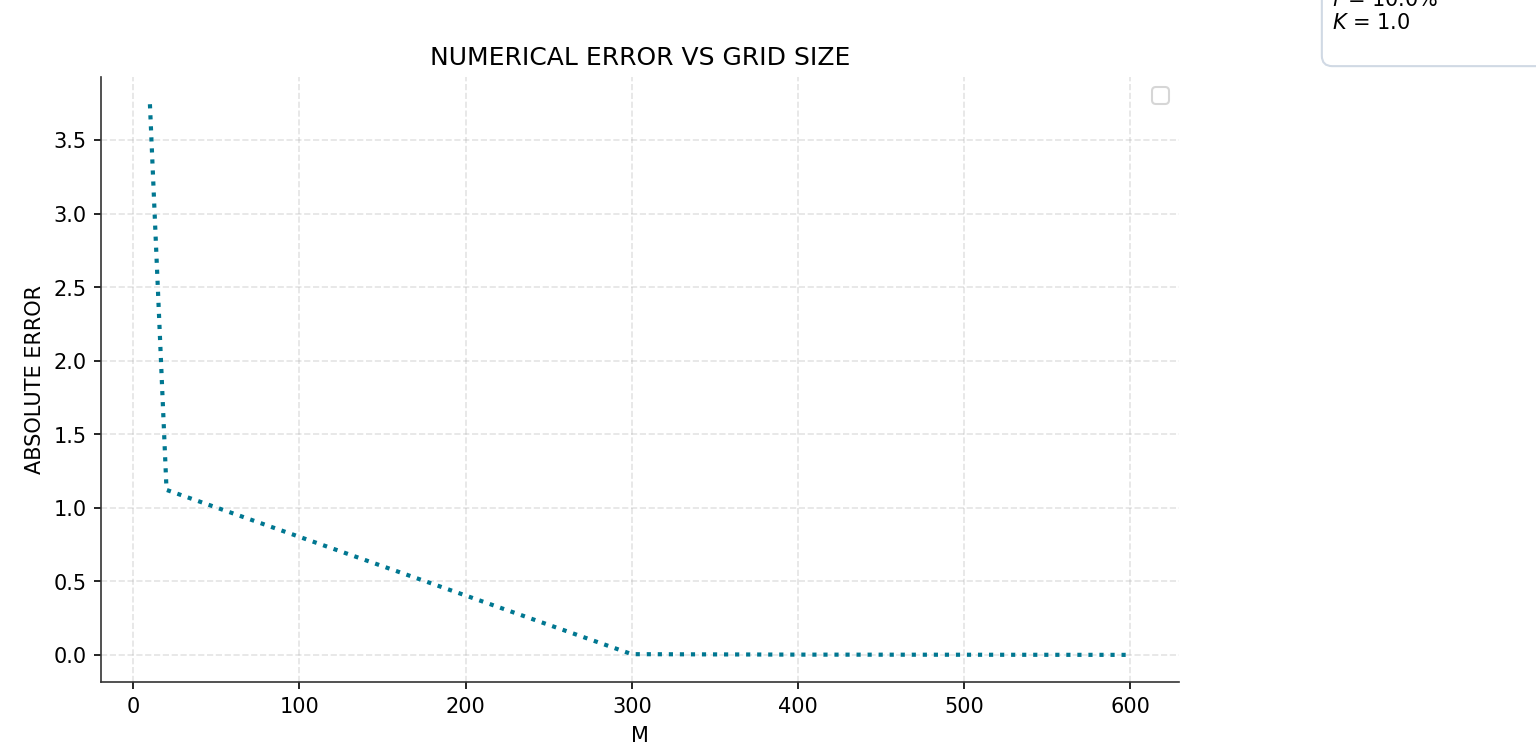
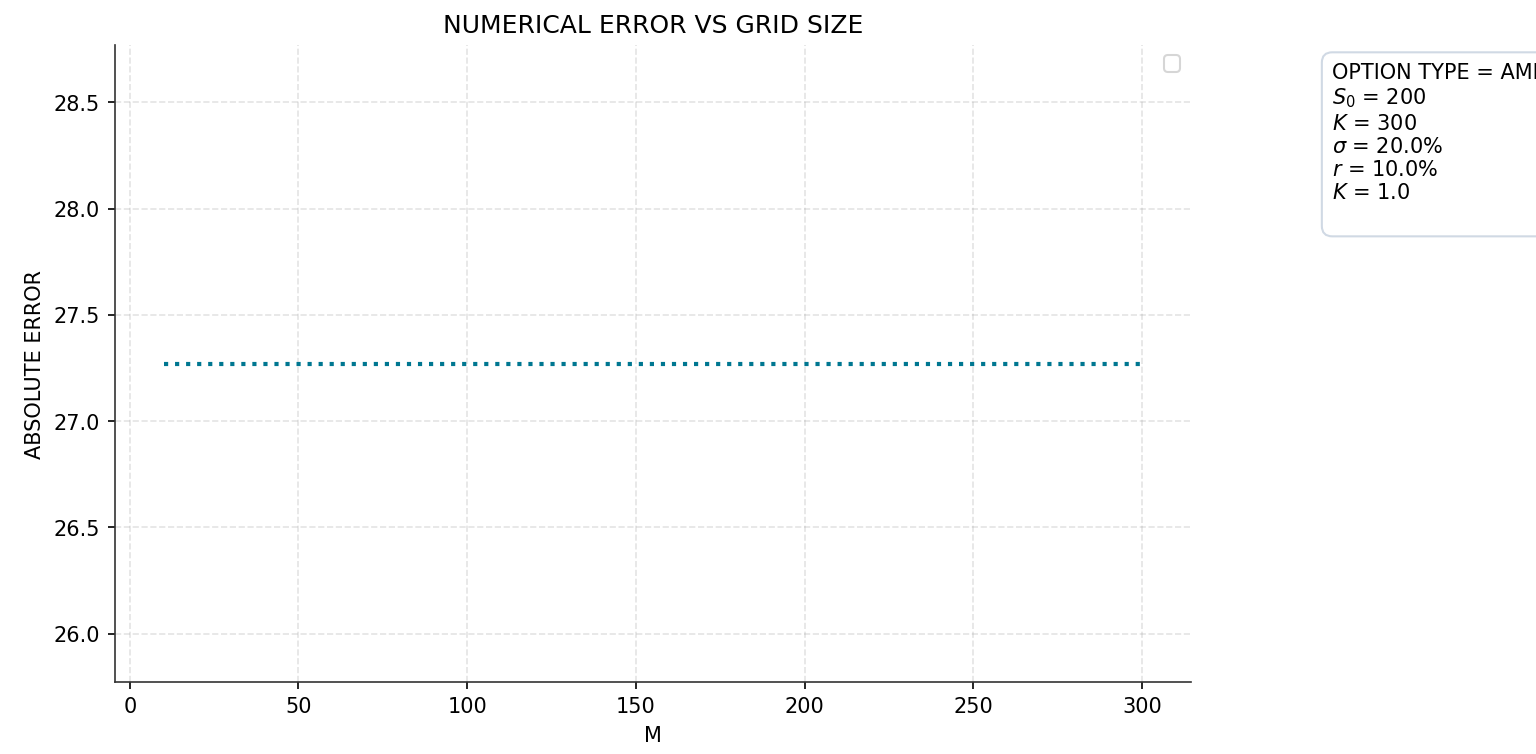
CORRECTED THE CONVERGENCE GRAPH

diff --git a/test and plotting/test_and_plotting.py b/test and plotting/test_and_plotting.py
@@ -238,7 +238,7 @@ ax_2.grid(
 
 ax_2.text(
     0.70,
-    0.90,
+    0.70,
     parameter_text,
     transform=ax.transAxes,
     fontsize=10,
